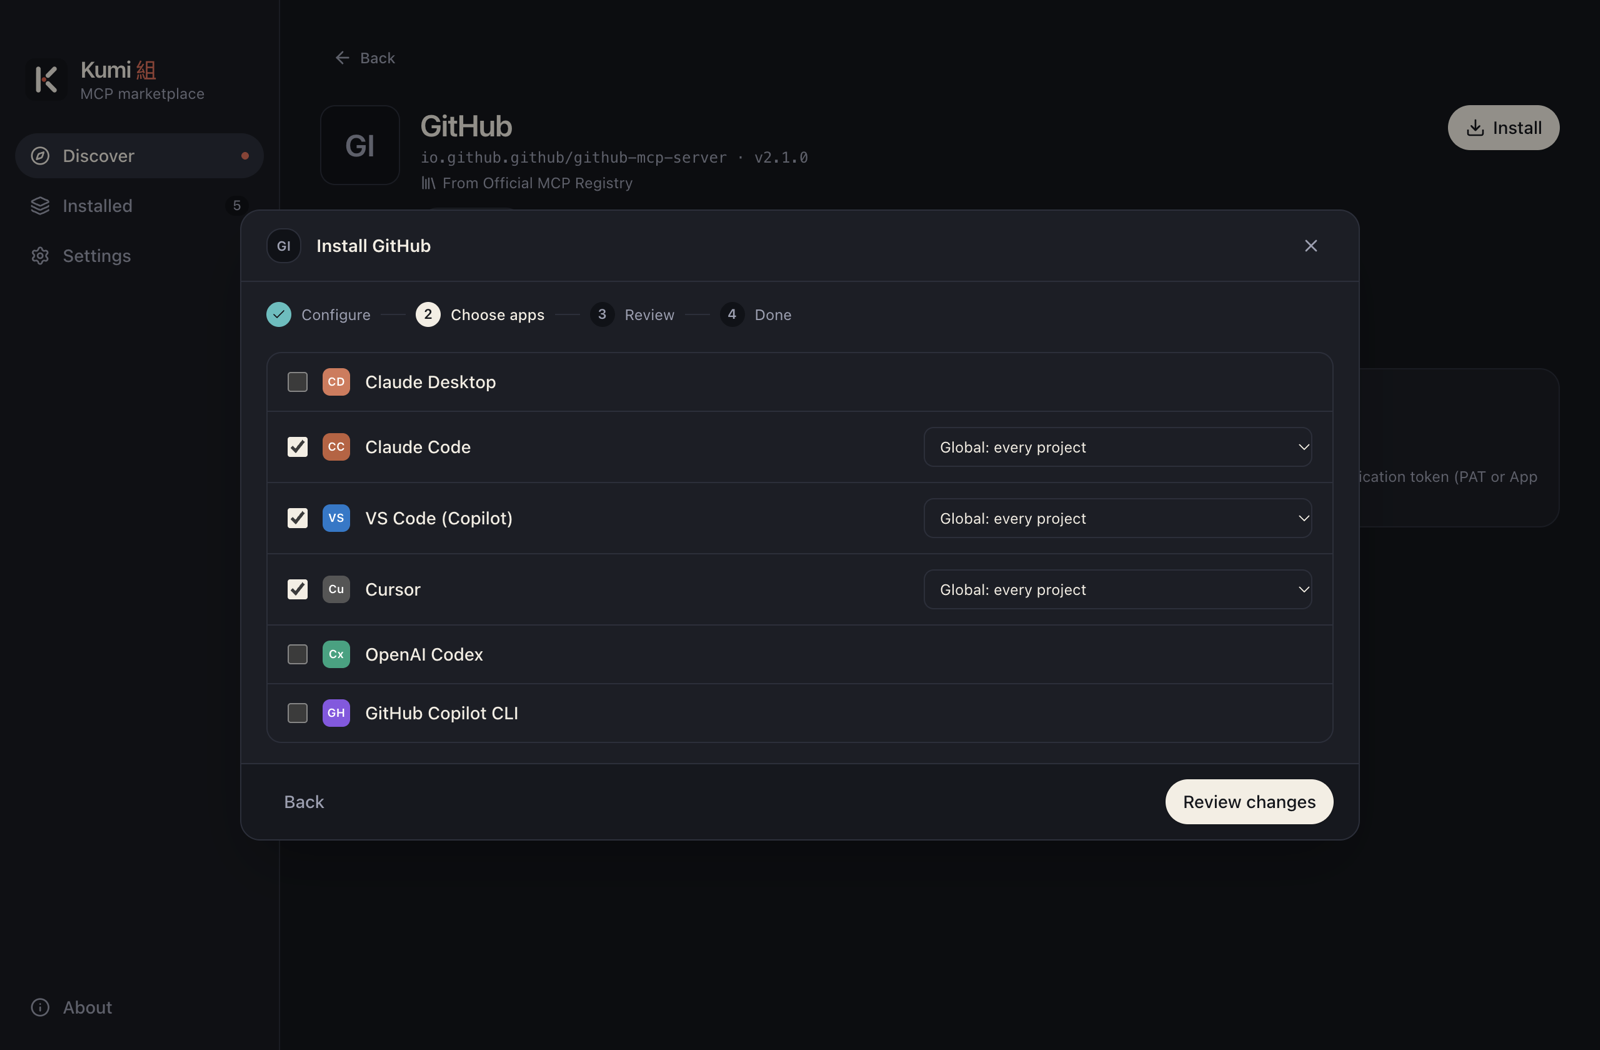
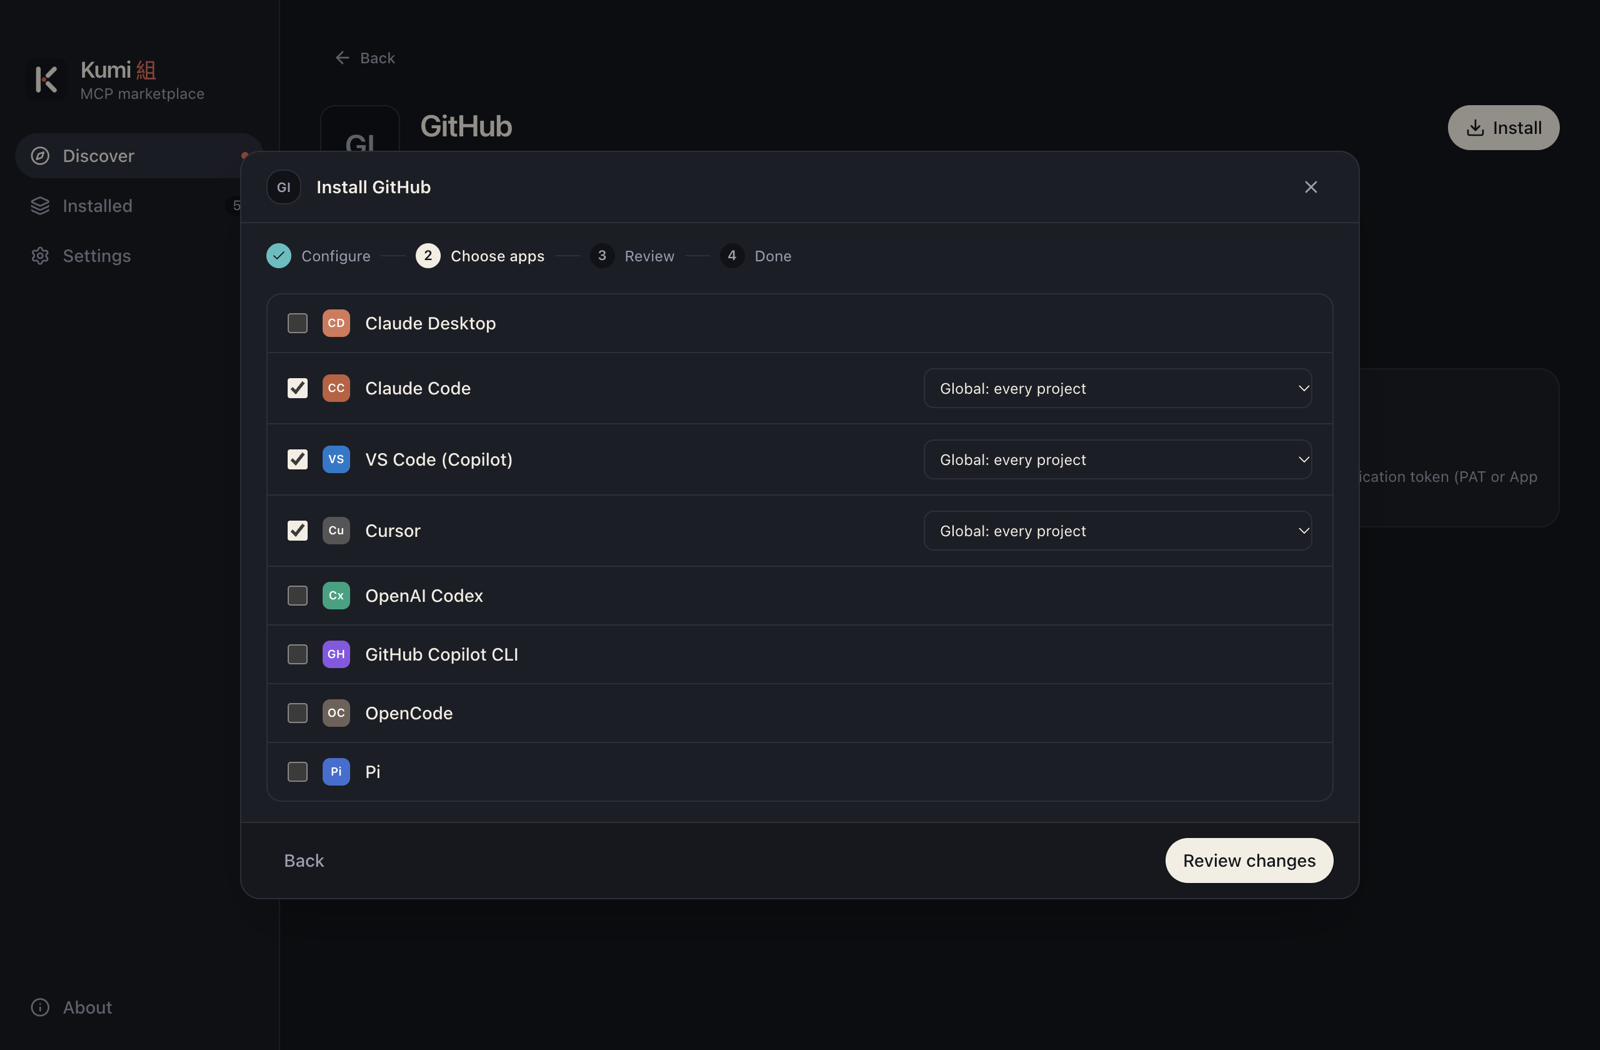
feat: add support for OpenCode and Pi

diff --git a/tests/adapters.test.ts b/tests/adapters.test.ts
@@ -141,3 +141,67 @@ describe('copilot-cli', () => {
     expect((parseJson(text) as { mcpServers: Record<string, unknown> }).mcpServers.context7).toMatchObject({ type: 'local', tools: ['*'] });
   });
 });
+
+describe('opencode', () => {
+  const adapter = getAdapter('opencode');
+
+  it('writes a local server as a command array under mcp.servers, keeping comments and other servers', () => {
+    const { text } = adapter.upsert(fixture('opencode.jsonc'), stdio, user, mac);
+    expect(text).toContain('// Theme and model');
+    const json = parseJson(text) as { model: string; mcp: { servers: Record<string, unknown> } };
+    expect(json.model).toBe('anthropic/claude-sonnet-5-5');
+    expect(json.mcp.servers.context7).toEqual({
+      type: 'local',
+      command: ['npx', '-y', '@upstash/context7-mcp@1.0.0'],
+      environment: { CONTEXT7_API_KEY: 'sk-1' },
+    });
+    expect(adapter.readServers(text, user).existing).toEqual({
+      name: 'existing',
+      transport: 'stdio',
+      command: 'uvx',
+      args: ['mcp-server-git'],
+      env: { LOG_LEVEL: 'info' },
+    });
+  });
+
+  it('writes remote servers with the remote type', () => {
+    const { text } = adapter.upsert('', remote, user, mac);
+    expect((parseJson(text) as { mcp: { servers: Record<string, unknown> } }).mcp.servers.remote).toEqual({
+      type: 'remote',
+      url: remote.url,
+      headers: remote.headers,
+    });
+  });
+
+  it('bridges SSE servers through mcp-remote', () => {
+    const { text, warnings } = adapter.upsert('', { ...remote, transport: 'sse' }, user, mac);
+    expect(adapter.readServers(text, user).remote).toMatchObject({ command: 'npx', transport: 'stdio' });
+    expect(warnings[0]).toMatch(/mcp-remote/);
+  });
+
+  it('uses ~/.config/opencode for user scope and opencode.json in the project', () => {
+    const env = { home: '/h', xdgConfig: '/h/.config', vars: {} } as never;
+    expect(adapter.configPath(env, user)).toBe('/h/.config/opencode/opencode.json');
+    expect(adapter.configPath(env, { kind: 'project', projectDir: '/repo' })).toBe('/repo/opencode.json');
+  });
+});
+
+describe('pi', () => {
+  const adapter = getAdapter('pi');
+
+  it('writes plain mcpServers entries without a type', () => {
+    const { text } = adapter.upsert('', remote, user, mac);
+    expect((parseJson(text) as { mcpServers: Record<string, unknown> }).mcpServers.remote).toEqual({ url: remote.url, headers: remote.headers });
+  });
+
+  it('bridges SSE servers, which Pi rejects', () => {
+    const { warnings } = adapter.upsert('', { ...remote, transport: 'sse' }, user, mac);
+    expect(warnings[0]).toMatch(/mcp-remote/);
+  });
+
+  it('uses the agent dir (honoring PI_CODING_AGENT_DIR) and .pi/mcp.json in the project', () => {
+    expect(adapter.configPath({ home: '/h', vars: {} } as never, user)).toBe('/h/.pi/agent/mcp.json');
+    expect(adapter.configPath({ home: '/h', vars: { PI_CODING_AGENT_DIR: '/pi' } } as never, user)).toBe('/pi/mcp.json');
+    expect(adapter.configPath({ home: '/h', vars: {} } as never, { kind: 'project', projectDir: '/repo' })).toBe('/repo/.pi/mcp.json');
+  });
+});

diff --git a/src/main/clients/opencode.ts b/src/main/clients/opencode.ts
@@ -1,0 +1,51 @@
+import { join } from 'node:path';
+import type { ServerSpec } from '@shared/types';
+import { anyExists, createJsonAdapter, requireProjectDir, stringRecord } from './common';
+import type { HostEnv } from './types';
+
+// OpenCode uses ~/.config/opencode on every platform (it follows XDG_CONFIG_HOME, not %APPDATA%).
+function userDir(env: HostEnv): string {
+  return join(env.xdgConfig, 'opencode');
+}
+
+/** `{ type: "local", command: [cmd, ...args], environment }` or `{ type: "remote", url, headers }`. */
+function render(spec: ServerSpec): Record<string, unknown> {
+  if (spec.transport === 'stdio') {
+    return {
+      type: 'local',
+      command: [spec.command, ...(spec.args ?? [])],
+      ...(spec.env && Object.keys(spec.env).length ? { environment: spec.env } : {}),
+    };
+  }
+  return {
+    type: 'remote',
+    url: spec.url,
+    ...(spec.headers && Object.keys(spec.headers).length ? { headers: spec.headers } : {}),
+  };
+}
+
+function parse(name: string, raw: unknown): ServerSpec {
+  const e = (raw && typeof raw === 'object' ? raw : {}) as Record<string, unknown>;
+  if (e.type === 'remote' || typeof e.url === 'string') {
+    const headers = stringRecord(e.headers);
+    return { name, transport: 'streamable-http', url: typeof e.url === 'string' ? e.url : undefined, ...(headers ? { headers } : {}) };
+  }
+  const command = Array.isArray(e.command) ? e.command.map(String) : typeof e.command === 'string' ? [e.command] : [];
+  const env = stringRecord(e.environment);
+  return { name, transport: 'stdio', command: command[0], args: command.slice(1), ...(env ? { env } : {}) };
+}
+
+export const opencode = createJsonAdapter({
+  id: 'opencode',
+  displayName: 'OpenCode',
+  scopes: ['user', 'project'],
+  // Remote servers use Streamable HTTP only.
+  transports: ['stdio', 'streamable-http'],
+  bridgeable: ['sse'],
+  needsRestart: false,
+  configPath: (env, scope) => (scope.kind === 'project' ? join(requireProjectDir(scope), 'opencode.json') : join(userDir(env), 'opencode.json')),
+  detect: async (env) => !!(await env.which('opencode')) || anyExists(env, [userDir(env)]),
+  serversPath: () => ['mcp', 'servers'],
+  render: (spec) => ({ entry: render(spec), warnings: [] }),
+  parse,
+});

diff --git a/src/main/clients/pi.ts b/src/main/clients/pi.ts
@@ -1,0 +1,22 @@
+import { join } from 'node:path';
+import { anyExists, commonEntry, createJsonAdapter, requireProjectDir } from './common';
+import type { HostEnv } from './types';
+
+function agentDir(env: HostEnv): string {
+  return env.vars.PI_CODING_AGENT_DIR ?? join(env.home, '.pi', 'agent');
+}
+
+export const pi = createJsonAdapter({
+  id: 'pi',
+  displayName: 'Pi',
+  scopes: ['user', 'project'],
+  // Pi's built-in MCP rejects the legacy SSE transport.
+  transports: ['stdio', 'streamable-http'],
+  bridgeable: ['sse'],
+  needsRestart: false,
+  configPath: (env, scope) => (scope.kind === 'project' ? join(requireProjectDir(scope), '.pi', 'mcp.json') : join(agentDir(env), 'mcp.json')),
+  detect: async (env) => !!(await env.which('pi')) || anyExists(env, [agentDir(env)]),
+  serversPath: () => ['mcpServers'],
+  // `command` selects stdio and `url` selects Streamable HTTP, so no `type` is needed.
+  render: (spec) => ({ entry: commonEntry(spec, () => undefined), warnings: [] }),
+});

diff --git a/src/renderer/src/pages/Installed.tsx b/src/renderer/src/pages/Installed.tsx
@@ -234,7 +234,7 @@ export function Installed({ onEdit, onAddCustom }: { onEdit: (source: WizardSour
         <div className="mb-2 flex items-center justify-between">
           <div>
             <h2 className="text-sm font-semibold">Project folders</h2>
-            <p className="text-xs text-muted">Kumi also reads project-level configs (.mcp.json, .vscode/mcp.json, .cursor/mcp.json) in these folders.</p>
+            <p className="text-xs text-muted">Kumi also reads project-level configs (.mcp.json, .vscode/mcp.json, .cursor/mcp.json, opencode.json, .pi/mcp.json) in these folders.</p>
           </div>
           <Button size="sm" icon={<FolderPlus className="size-3.5" />} onClick={() => addProject.mutate()}>
             Add folder

diff --git a/src/main/clients/index.ts b/src/main/clients/index.ts
@@ -4,10 +4,12 @@ import { claudeDesktop } from './claude-desktop';
 import { codex } from './codex';
 import { copilotCli } from './copilot-cli';
 import { cursor } from './cursor';
+import { opencode } from './opencode';
+import { pi } from './pi';
 import type { ClientAdapter } from './types';
 import { vscode } from './vscode';
 
-export const ADAPTERS: ClientAdapter[] = [claudeDesktop, claudeCode, vscode, cursor, codex, copilotCli];
+export const ADAPTERS: ClientAdapter[] = [claudeDesktop, claudeCode, vscode, cursor, codex, copilotCli, opencode, pi];
 
 export function getAdapter(id: ClientId): ClientAdapter {
   const adapter = ADAPTERS.find((a) => a.id === id);

diff --git a/src/main/clients/common.ts b/src/main/clients/common.ts
@@ -64,7 +64,7 @@ export function adaptTransport(spec: ServerSpec, adapter: Pick<ClientAdapter, 't
   throw new UnsupportedError(`${adapter.displayName} doesn't support ${spec.transport} servers.`);
 }
 
-function stringRecord(v: unknown): Record<string, string> | undefined {
+export function stringRecord(v: unknown): Record<string, string> | undefined {
   if (!v || typeof v !== 'object' || Array.isArray(v)) return undefined;
   const out: Record<string, string> = {};
   for (const [k, x] of Object.entries(v)) if (typeof x === 'string') out[k] = x;

diff --git a/src/renderer/src/components/bits.tsx b/src/renderer/src/components/bits.tsx
@@ -13,6 +13,9 @@ const CLIENT_STYLE: Record<ClientId, { short: string; color: string }> = {
   cursor: { short: 'Cu', color: '#555555' },
   codex: { short: 'Cx', color: '#10a37f' },
   'copilot-cli': { short: 'GH', color: '#8957e5' },
+  // OpenCode's brand is near-black, which disappears on the dark theme; a warm gray reads on both.
+  opencode: { short: 'OC', color: '#6f6259' },
+  pi: { short: 'Pi', color: '#3b6fd4' },
 };
 
 /** Kumi's own icon, in the variant that suits the current theme. */

diff --git a/src/shared/types.ts b/src/shared/types.ts
@@ -1,6 +1,6 @@
 // Domain types shared by the main process and the renderer.
 
-export const CLIENT_IDS = ['claude-desktop', 'claude-code', 'vscode', 'cursor', 'codex', 'copilot-cli'] as const;
+export const CLIENT_IDS = ['claude-desktop', 'claude-code', 'vscode', 'cursor', 'codex', 'copilot-cli', 'opencode', 'pi'] as const;
 export type ClientId = (typeof CLIENT_IDS)[number];
 
 export type ScopeKind = 'user' | 'project' | 'local';

diff --git a/PLAN.md b/PLAN.md
@@ -39,6 +39,10 @@ Each client gets an **adapter** that knows where its config lives, its format, a
 | **OpenAI Codex** (CLI / IDE ext) | user | `~/.codex/config.toml` (or `$CODEX_HOME`) | **TOML** | `[mcp_servers.<name>]` | `command`, `args`, `env`, `env_vars` (pass-through), `url`, `bearer_token_env_var`, timeouts. |
 | | (alt) | `codex mcp add <name> -- <cmd>` | CLI | | |
 | **GitHub Copilot CLI** | user | `~/.copilot/mcp-config.json` | JSON | `mcpServers` | Separate from VS Code. |
+| **OpenCode** | user | `~/.config/opencode/opencode.json` (follows `XDG_CONFIG_HOME`) | **JSONC** | `mcp.servers` | `type`: `local` (`command` is one array, env in `environment`) \| `remote` (`url`, `headers`, Streamable HTTP only; SSE via `mcp-remote`). |
+| | project | `<repo>/opencode.json` | JSONC | `mcp.servers` | Also read from `.opencode/opencode.json`. |
+| **Pi** | user | `~/.pi/agent/mcp.json` (or `$PI_CODING_AGENT_DIR`) | JSON | `mcpServers` | Built-in MCP (Pi 0.99+). `command` selects stdio, `url` selects Streamable HTTP; legacy SSE is rejected, so it goes through `mcp-remote`. |
+| | project | `<repo>/.pi/mcp.json` | JSON | `mcpServers` | Read only after project trust is granted. |
 | **Copilot in JetBrains / Visual Studio** | user/sln | JetBrains: `mcp.json` under the Copilot plugin config dir; VS: `.mcp.json` / `%USERPROFILE%\.mcp.json` | JSON | `servers` | Phase 3. |
 
 Clients to consider later: Windsurf, Zed, Cline/Roo, Gemini CLI, Continue, LM Studio, Goose. The adapter design makes each one about a day of work.
@@ -248,7 +252,9 @@ kumi/
 │  │  │  ├─ vscode.ts
 │  │  │  ├─ cursor.ts
 │  │  │  ├─ codex.ts
-│  │  │  └─ copilot-cli.ts
+│  │  │  ├─ copilot-cli.ts
+│  │  │  ├─ opencode.ts
+│  │  │  └─ pi.ts
 │  │  ├─ config-io/               # json.ts, jsonc.ts, toml.ts, atomic-write.ts
 │  │  ├─ install/                 # planner, diff, apply, rollback
 │  │  ├─ secrets/

diff --git a/README.md b/README.md
@@ -10,6 +10,8 @@ A desktop MCP marketplace. Browse MCP servers from the official [MCP Registry](h
 | Cursor | global, project (`.cursor/mcp.json`) | `~/.cursor/mcp.json` |
 | OpenAI Codex | global | `~/.codex/config.toml` (honors `CODEX_HOME`) |
 | GitHub Copilot CLI | global | `~/.copilot/mcp-config.json` |
+| OpenCode | global, project (`opencode.json`) | `~/.config/opencode/opencode.json` (SSE servers via `mcp-remote`) |
+| Pi | global, project (`.pi/mcp.json`) | `~/.pi/agent/mcp.json` (honors `PI_CODING_AGENT_DIR`; SSE servers via `mcp-remote`) |
 
 ## Showcase
 
@@ -99,7 +101,7 @@ Kumi stores its state, backups and cache in `~/.kumi` (override with `KUMI_DATA_
 To try the app without touching your real configs, point it at a throwaway home:
 
 ```bash
-env -u CLAUDE_CONFIG_DIR -u CODEX_HOME HOME=/tmp/kumi-home KUMI_DATA_DIR=/tmp/kumi-home/.kumi npm run dev
+env -u CLAUDE_CONFIG_DIR -u CODEX_HOME -u XDG_CONFIG_HOME -u PI_CODING_AGENT_DIR HOME=/tmp/kumi-home KUMI_DATA_DIR=/tmp/kumi-home/.kumi npm run dev
 ```
 
 ## Layout
